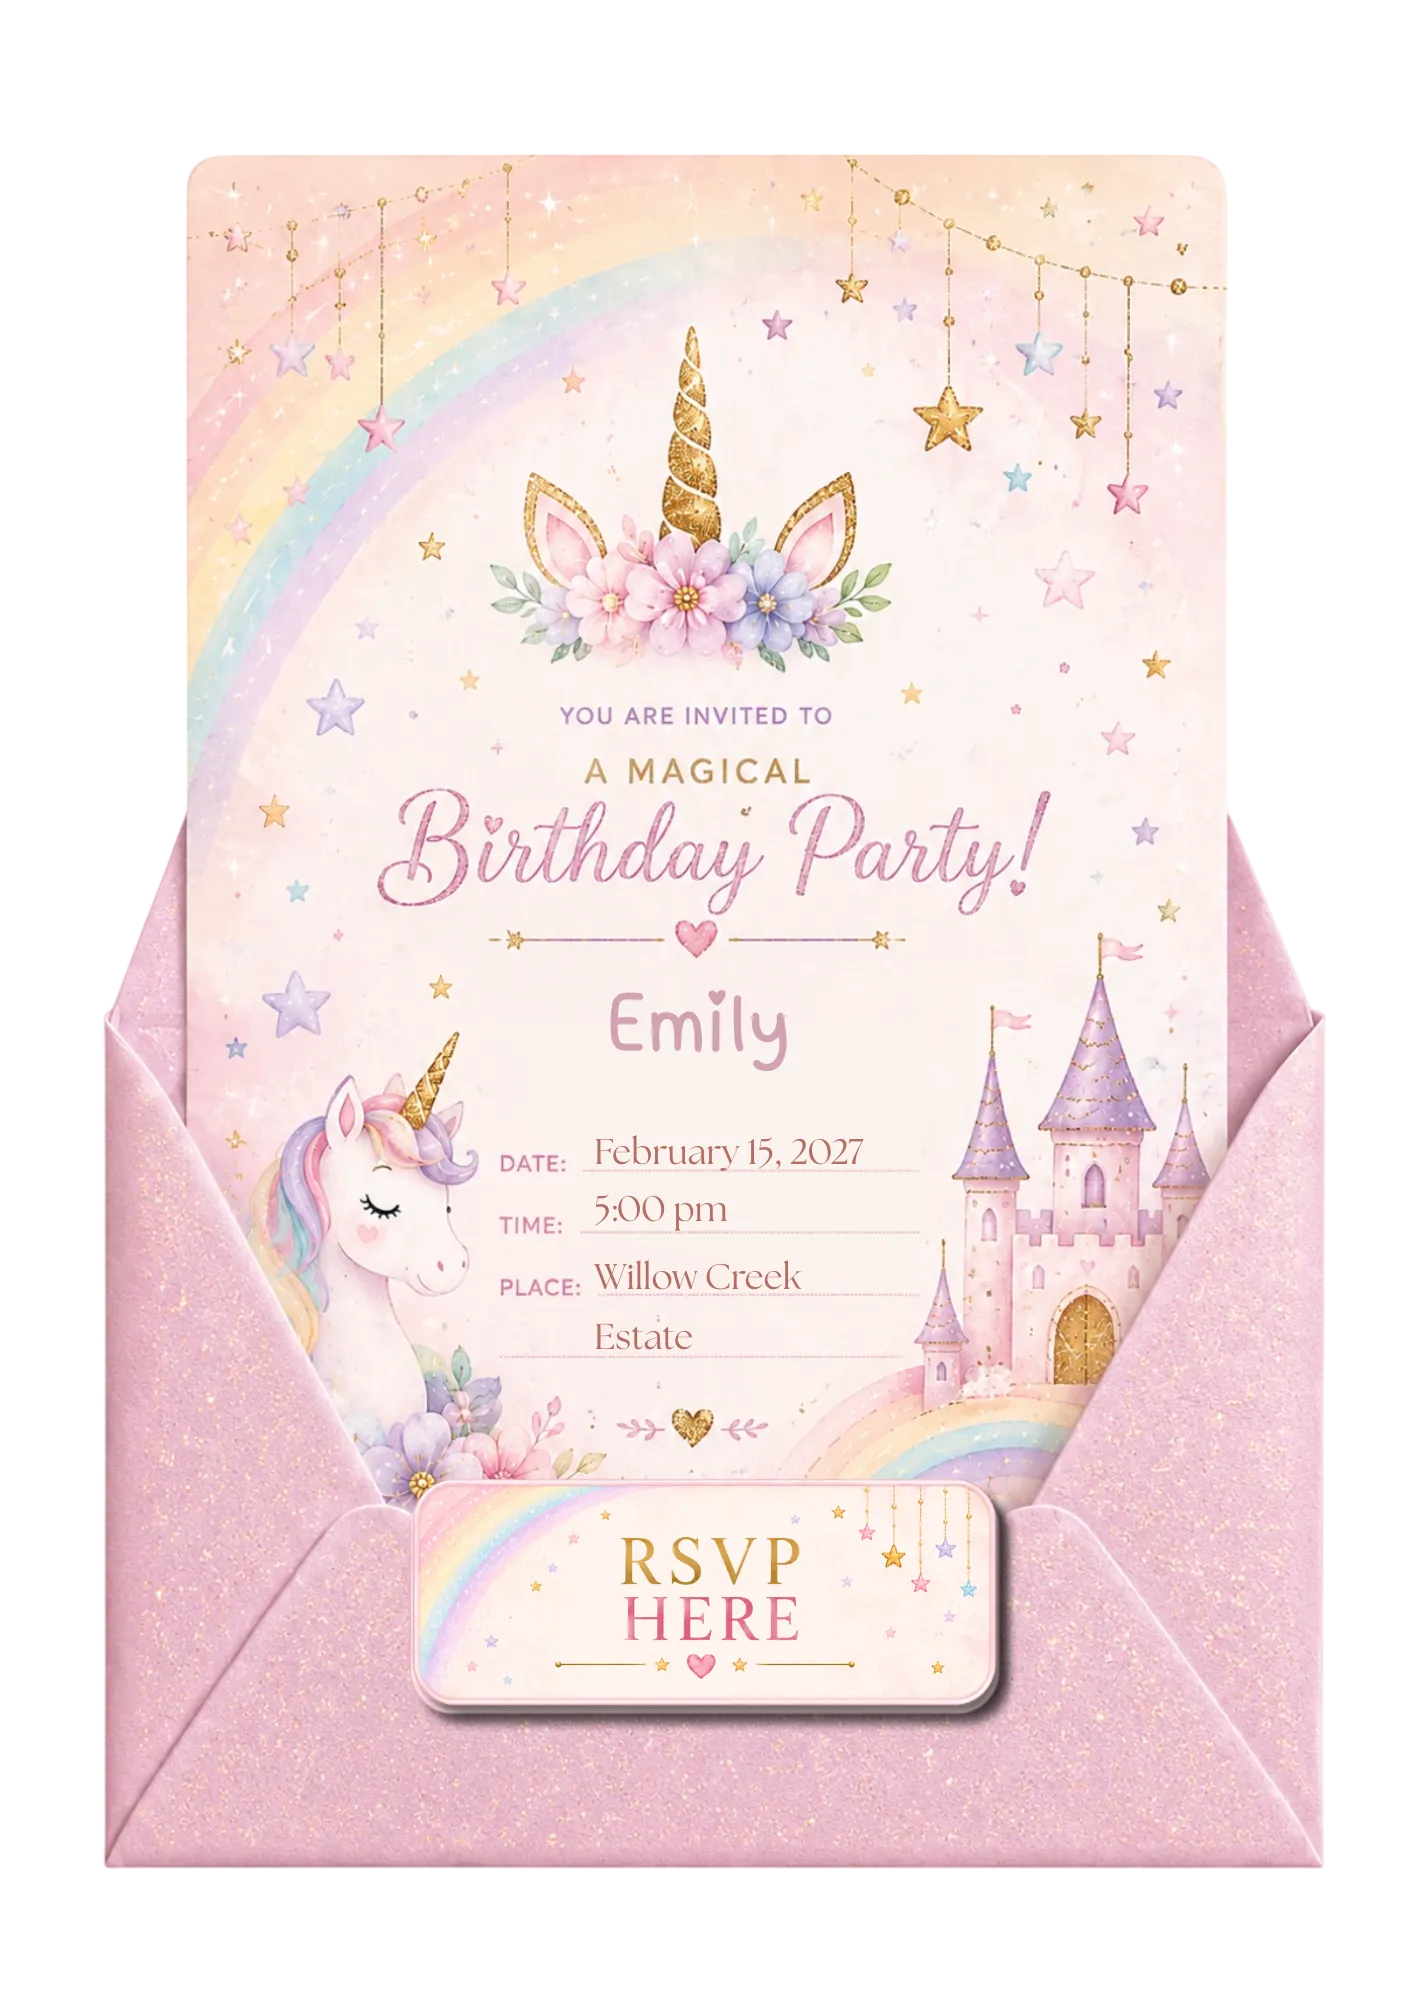
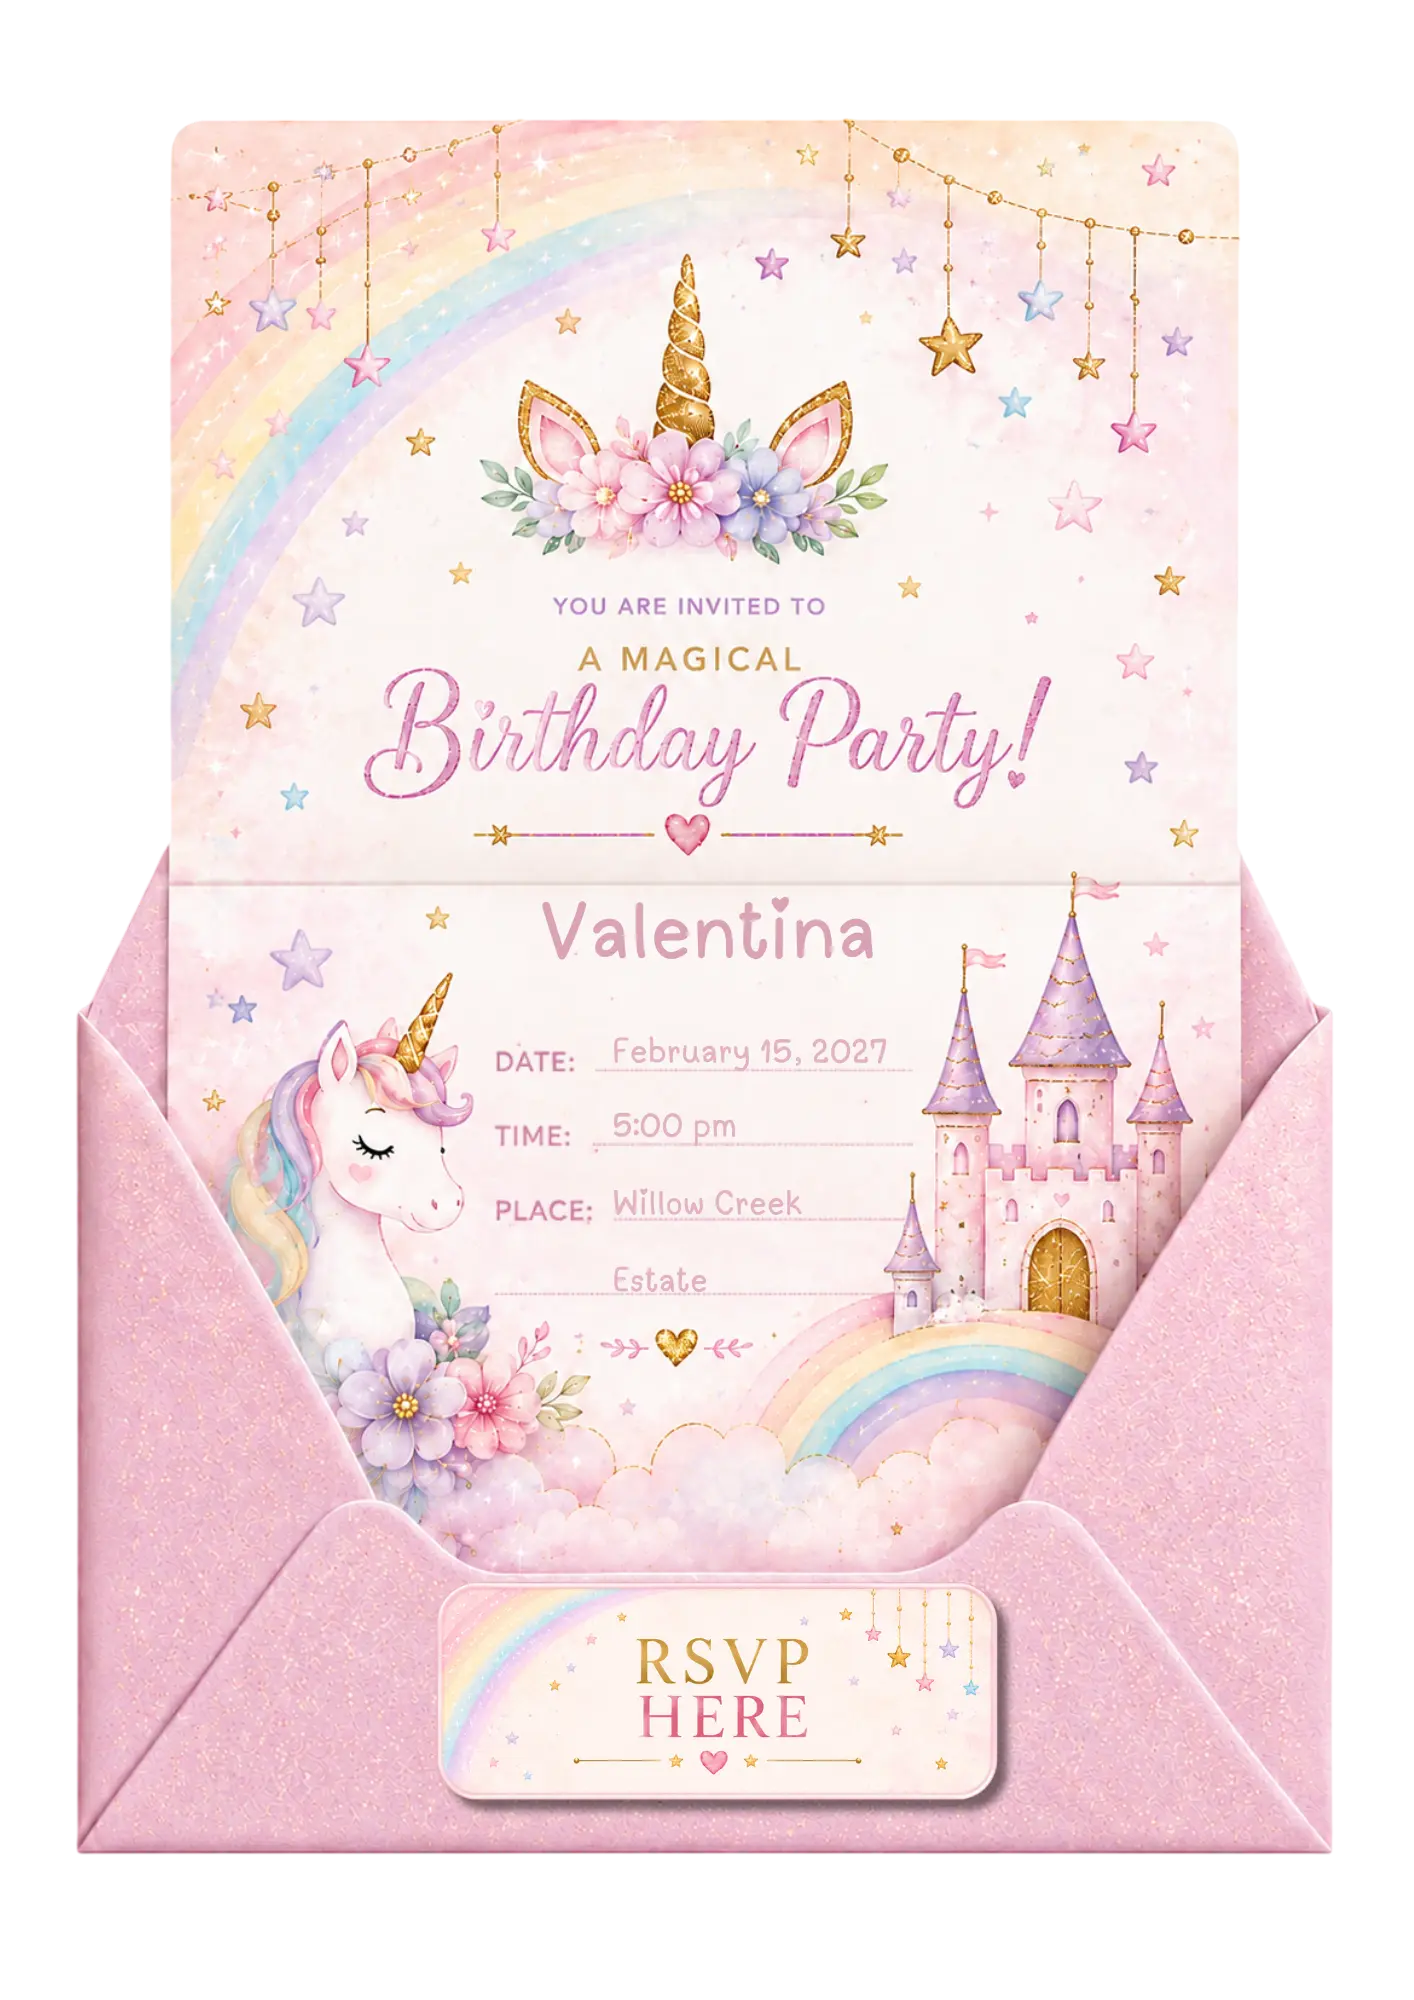
sdfdsf

diff --git a/src/data/colombia.ts b/src/data/colombia.ts
@@ -80,6 +80,14 @@ export const colombiaInvitations: Invitation[] = [
     openImage: "/Unicorn Party open.webp",
   },
   {
+    title: "Unicorn Party",
+    category: "Cumpleaños y fiestas infantiles",
+    country: "co",
+    price: "$39",
+    closedImage: "/Unicorn Party close.webp",
+    openImage: "/Unicorn Party open foto.webp",
+  },
+  {
     title: "Soccer Party",
     category: "Cumpleaños y fiestas infantiles",
     country: "co",
